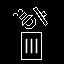
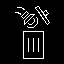
Rename obligatory forge class

Changed region(s): [[0.2188, 0.0938, 0.7812, 0.9375], [0.1875, 0.2188, 0.2188, 0.25]]

diff --git a/forge/src/main/java/org/fury_phoenix/soundgc/forge/SoundGCForge.java b/forge/src/main/java/org/fury_phoenix/soundgc/forge/SoundGCForge.java
@@ -1,12 +1,8 @@
 package org.fury_phoenix.soundgc.forge;
 
 import net.minecraftforge.fml.common.Mod;
-import net.minecraftforge.fml.javafmlmod.FMLJavaModLoadingContext;
 
 import org.fury_phoenix.soundgc.SoundGC;
 
 @Mod(SoundGC.MOD_ID)
-public final class ExampleModForge {
-    public ExampleModForge() {
-    }
-}
+public final class SoundGCForge {}
